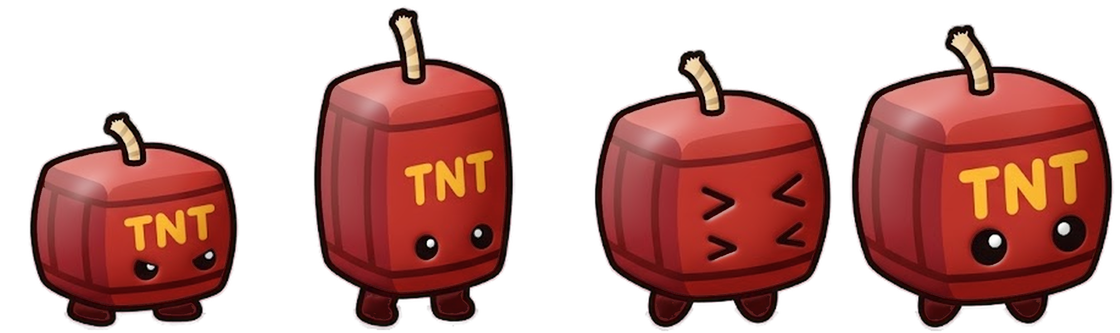
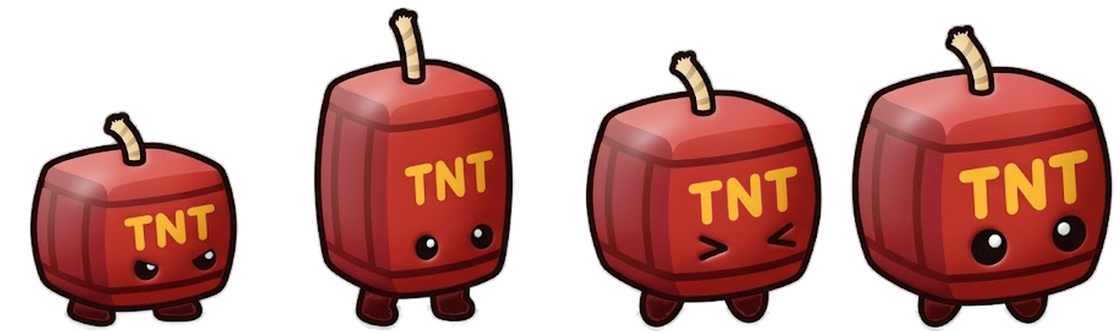
Fix the TNT's four eyes on its third attack frame
The source sheet has a second pair of squinting eyes on that pose where
the letters "TNT" should be. The animation script now removes that pair
and copies the letters from the next pose, placed relative to the eyes.

- extract_animations.py: restore_letters() repairs a lettered pose that
  was drawn without its letters
- shade_brawlers.py: letter_labels() is the one place that finds the
  letters, shared by mirroring and the repair

Claude-Session: https://claude.ai/code/session_01EhkagQdMKRPvrdP32sj85t

Changed region(s): [[0.5, 0.1502, 0.75, 0.991]]

diff --git a/scripts/extract_animations.py b/scripts/extract_animations.py
@@ -12,6 +12,7 @@ and a moving preview of all brawlers in examples/animations.gif.
 
 What happens to a sheet:
   1. The 8 poses are cut out of the green screen. Shadows drawn under the feet are removed.
+     A TNT pose that was drawn without its letters gets them back from the pose next to it.
   2. They are brought to one size: the walk poses are made equal to each other, the attack
      poses keep the sizes they were drawn at (a pose can be bigger on purpose, like the TNT
      puffing up), and the whole sheet is scaled to the size of the brawler's still sprite.
@@ -35,7 +36,7 @@ import numpy as np
 from PIL import Image, ImageDraw, ImageFilter, ImageFont
 
 from extract_brawlers import dilate, key_green, label
-from shade_brawlers import mirror_sprite, shade_sprite
+from shade_brawlers import LETTERED, letter_labels, mirror_sprite, shade_sprite
 
 ROOT = Path(__file__).resolve().parent.parent
 SRC = ROOT / "animations" / "source"
@@ -107,6 +108,77 @@ def scaled(pose: np.ndarray, k: float) -> np.ndarray:
     return np.asarray(resized(Image.fromarray(pose, "RGBA"), size))
 
 
+# ---------------------------------------------------------------- repairs
+
+def face_marks(pose: np.ndarray) -> list[tuple[float, float, np.ndarray]]:
+    """Small dark marks drawn on a pose's body (eyes and the like): (x, y, mask), lowest first."""
+    a = pose.astype(np.int32)
+    solid = a[..., 3] > 200
+    labels, n = label((a[..., :3].max(axis=-1) < 90) & solid)
+    out = []
+    for i in range(1, n + 1):
+        mask = labels == i
+        ys, xs = np.nonzero(mask)
+        small = len(xs) >= 25 and np.ptp(xs) < 0.3 * pose.shape[1] and np.ptp(ys) < 0.3 * pose.shape[0]
+        if small and solid[dilate(mask, 3)].all():            # on the body, not at its edge
+            out.append((float(xs.mean()), float(ys.mean()), mask))
+    return sorted(out, key=lambda m: -m[1])
+
+
+def restore_letters(row: list[np.ndarray], brawler: str, row_name: str) -> list[np.ndarray]:
+    """Give a pose that lost its letters the letters of the pose next to it.
+
+    The letters go where they sit on that pose, measured from the eyes, and anything else
+    drawn in that spot is removed first. On the TNT sheet, one attack pose was drawn with a
+    second pair of squinting eyes where "TNT" should be, so the box seemed to have four eyes.
+    """
+    lettered = [len(letter_labels(p)[1]) == 3 for p in row]
+    out = list(row)
+    for i, pose in enumerate(row):
+        donors = sorted((j for j in range(len(row)) if lettered[j]), key=lambda j: (abs(j - i), -j))
+        if lettered[i] or not donors:
+            continue
+        donor = row[donors[0]]                                 # the nearest pose, the next one first
+        marks, donor_eyes = face_marks(pose), face_marks(donor)[:2]
+        eyes, others = marks[:2], marks[2:]                    # the eyes are the lowest two marks
+        if len(eyes) < 2 or len(donor_eyes) < 2:
+            continue
+
+        def pair(two: list) -> tuple[np.ndarray, float]:
+            """The middle of two eyes, and the distance between them."""
+            (x1, y1, _), (x2, y2, _) = two
+            return np.array([(x1 + x2) / 2, (y1 + y2) / 2]), float(np.hypot(x1 - x2, y1 - y2))
+
+        (to, gap), (frm, donor_gap) = pair(eyes), pair(donor_eyes)
+        k = gap / donor_gap
+
+        # The letters of the donor, with a soft edge, at this pose's size.
+        labels, ids = letter_labels(donor)
+        letters = np.isin(labels, ids)
+        ys, xs = np.nonzero(letters)
+        x0, x1, y0, y1 = xs.min() - 4, xs.max() + 5, ys.min() - 4, ys.max() + 5
+        patch = Image.fromarray(donor[y0:y1, x0:x1], "RGBA")
+        matte = Image.fromarray((dilate(letters, 1)[y0:y1, x0:x1] * 255).astype(np.uint8))
+        patch.putalpha(matte.filter(ImageFilter.GaussianBlur(0.7)))
+        patch = resized(patch, (round(patch.width * k), round(patch.height * k)))
+        px, py = (int(v) for v in (to + k * (np.array([x0, y0]) - frm)).round())
+
+        # Paint over whatever was drawn where the letters go, then put the letters there.
+        a = pose.astype(np.int32)
+        dark = a[..., :3].max(axis=-1) < 90
+        fixed = pose.copy()
+        for mx, my, mask in others:
+            if px <= mx < px + patch.width and py <= my < py + patch.height:
+                cover = dilate(mask, 3)
+                ring = dilate(cover, 4) & ~cover & ~dilate(dark, 1) & (a[..., 3] > 200)
+                fixed[cover, :3] = np.median(a[ring][:, :3], axis=0)
+        img = Image.fromarray(fixed, "RGBA")
+        img.alpha_composite(patch, (px, py))
+        out[i] = np.asarray(img)
+        print(f"{brawler:8s} {row_name} frame {i + 1} had no letters: copied from frame {donors[0] + 1}")
+    return out
+
+
 # ---------------------------------------------------------------- lining up
 
 def anchor_of(pose: np.ndarray) -> tuple[float, int]:
@@ -176,6 +248,8 @@ def build(brawler: str) -> dict:
     still_h = still.getbbox()[3] - still.getbbox()[1]
     to_still = still_h / float(np.median([p.shape[0] * f for p, f in zip(poses[0], factors[0])]))
     poses = [[scaled(p, f * to_still) for p, f in zip(row, fs)] for row, fs in zip(poses, factors)]
+    if brawler in LETTERED:
+        poses = [restore_letters(row, brawler, name) for row, name in zip(poses, ROWS)]
 
     # --- line up
     placed = []      # [row][frame] = [pose, anchor x, ground y] in the pose's own pixels

diff --git a/scripts/shade_brawlers.py b/scripts/shade_brawlers.py
@@ -103,6 +103,23 @@ def shade_sprite(sprite: Image.Image, strength: float = 1.0, up: int = UPSCALE) 
     return Image.fromarray(res, "RGBA")
 
 
+def letter_labels(rgba: np.ndarray) -> tuple[np.ndarray, list[int]]:
+    """Find the yellow letters on a sprite.
+
+    Returns a label image of everything yellow, and the labels of the letters, left to right.
+    """
+    a = rgba.astype(np.int32)
+    r, g, b, al = a[..., 0], a[..., 1], a[..., 2], a[..., 3]
+    yellow = (r > 190) & (g > 140) & (b < 120) & (al > 200) & (r - b > 110)
+    labels, n = label(yellow)
+    found = []
+    for i in range(1, n + 1):
+        xs = np.nonzero(labels == i)[1]
+        if len(xs) > 60:  # ignore specks
+            found.append((xs.mean(), i))
+    return labels, [i for _, i in sorted(found)]
+
+
 def mirror_keep_letters(sprite: Image.Image) -> Image.Image:
     """Mirror a sprite that has the yellow letters "TNT" on it, keeping the text readable.
 
@@ -111,20 +128,18 @@ def mirror_keep_letters(sprite: Image.Image) -> Image.Image:
     """
     m = sprite.convert("RGBA").transpose(Image.FLIP_LEFT_RIGHT)
     a = np.asarray(m).astype(np.int32)
-    r, g, b, al = a[..., 0], a[..., 1], a[..., 2], a[..., 3]
-    yellow = (r > 190) & (g > 140) & (b < 120) & (al > 200) & (r - b > 110)
-    labels, n = label(yellow)
-    letters = []
-    for i in range(1, n + 1):
+    labels, ids = letter_labels(a)
+    if not ids:
+        return m             # this pose shows no letters
+    if len(ids) != 3:
+        raise SystemExit(f"expected 3 letters on the sprite, found {len(ids)}")
+    yellow = labels > 0
+    boxes = []
+    for i in ids:
         ys, xs = np.nonzero(labels == i)
-        if len(xs) > 60:  # ignore specks
-            letters.append((xs.mean(), i, xs.min(), xs.max(), ys.min(), ys.max()))
-    letters.sort()
-    if not letters:
-        return m             # this pose shows no letters (they can be hidden in an animation frame)
-    if len(letters) != 3:
-        raise SystemExit(f"expected 3 letters on the sprite, found {len(letters)}")
-    (_, _, ax0, _, ay0, ay1), (_, n_id, nx0, nx1, ny0, ny1), (_, _, cx0, _, cy0, cy1) = letters
+        boxes.append((xs.min(), xs.max(), ys.min(), ys.max()))
+    (ax0, _, ay0, ay1), (nx0, nx1, ny0, ny1), (cx0, _, cy0, cy1) = boxes
+    n_id = ids[1]
     # Slope of the line of text, from the first to the last letter.
     slope = ((cy0 + cy1) - (ay0 + ay1)) / 2 / (cx0 - ax0)
 

diff --git a/animations/README.md b/animations/README.md
@@ -56,7 +56,6 @@ its light would flip too, and the TNT's letters would read backwards.
 These come from the source sheets. To fix one, generate a new sheet for that brawler, replace
 its file in `source/` and run the script again.
 
-- **TNT:** on the third attack frame the letters "TNT" are missing.
 - **Mr Nut:** the walk has very little movement, and on the third attack frame it is turned
   away, so its face is hidden.
 - **Ghost:** on the second and third walk frames it turns sideways, so it changes shape more
@@ -72,6 +71,10 @@ The script cuts the poses out, brings them to one size, lines them up and shades
 poses are lined up by the body, with the feet on the ground. Attack poses are matched to the
 resting pose where the two look the same, so the body stays put and only the parts that move,
 move.
+
+One pose is repaired along the way. On the TNT sheet, the third attack pose was drawn with a
+second pair of squinting eyes where the letters "TNT" should be, so the box seemed to have
+four eyes. The script removes that pair and copies the letters from the next pose.
 
 To regenerate everything (needs `numpy` and `Pillow`; takes about a minute), run this from the
 repo root:
